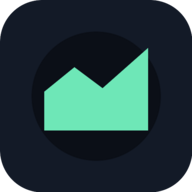
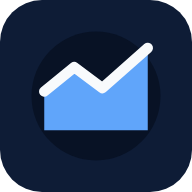
Apply blue dashboard theme

diff --git a/src/index.css b/src/index.css
@@ -1,21 +1,21 @@
 :root {
   font-family: Inter, ui-sans-serif, system-ui, -apple-system, BlinkMacSystemFont, "Segoe UI", sans-serif;
-  color: #f4f7fb;
-  background: #0b0f17;
+  color: #f4f8ff;
+  background: #081225;
   font-synthesis: none;
   text-rendering: optimizeLegibility;
   color-scheme: dark;
-  --background: #0b0f17;
-  --sidebar: #0e131d;
-  --panel: #111722;
-  --panel-raised: #151c29;
-  --border: #252c38;
-  --border-strong: #303848;
-  --text: #f4f7fb;
-  --text-soft: #a7b0bf;
-  --text-muted: #596274;
-  --accent: #6ee7b7;
-  --accent-strong: #34d399;
+  --background: #081225;
+  --sidebar: #0b1730;
+  --panel: #0e1c36;
+  --panel-raised: #132440;
+  --border: #213657;
+  --border-strong: #2c4770;
+  --text: #f4f8ff;
+  --text-soft: #a9bad3;
+  --text-muted: #667b9e;
+  --accent: #60a5fa;
+  --accent-strong: #3b82f6;
 }
 
 * {
@@ -31,7 +31,7 @@ body {
   min-width: 320px;
   min-height: 100vh;
   background:
-    radial-gradient(circle at 74% 12%, rgba(47, 129, 105, 0.09), transparent 27rem),
+    radial-gradient(circle at 74% 12%, rgba(37, 99, 235, 0.16), transparent 27rem),
     var(--background);
 }
 
@@ -83,7 +83,7 @@ a {
   width: 100%;
   height: 100%;
   padding: 22px 14px 16px;
-  background: rgba(14, 19, 29, 0.98);
+  background: rgba(11, 23, 48, 0.98);
   border-right: 1px solid var(--border);
 }
 
@@ -103,10 +103,10 @@ a {
   place-items: center;
   width: 31px;
   height: 31px;
-  color: #08110e;
+  color: #061225;
   background: var(--accent);
   border-radius: 9px;
-  box-shadow: 0 0 24px rgba(110, 231, 183, 0.16);
+  box-shadow: 0 0 24px rgba(96, 165, 250, 0.24);
 }
 
 .nav-list {
@@ -121,7 +121,7 @@ a {
   gap: 12px;
   min-height: 42px;
   padding: 0 12px;
-  color: #737d8f;
+  color: #7589a8;
   border: 1px solid transparent;
   border-radius: 9px;
   font-size: 14px;
@@ -136,8 +136,8 @@ a {
 
 .nav-item.active {
   color: var(--text);
-  background: #19212d;
-  border-color: #283241;
+  background: #10284a;
+  border-color: #21446d;
   box-shadow: inset 3px 0 var(--accent);
 }
 
@@ -181,16 +181,16 @@ a {
   flex: 0 0 auto;
   width: 34px;
   height: 34px;
-  color: var(--avatar-accent, #8ba29a);
-  background: color-mix(in srgb, var(--avatar-accent, #6ee7b7) 13%, #151c29);
-  border: 1px solid color-mix(in srgb, var(--avatar-accent, #6ee7b7) 24%, #242c38);
+  color: var(--avatar-accent, #8daee0);
+  background: color-mix(in srgb, var(--avatar-accent, #60a5fa) 13%, #132440);
+  border: 1px solid color-mix(in srgb, var(--avatar-accent, #60a5fa) 24%, #213657);
   border-radius: 10px;
   font-size: 10px;
   font-weight: 700;
 }
 
 .avatar-owner {
-  --avatar-accent: #6ee7b7;
+  --avatar-accent: #60a5fa;
 }
 
 .profile-menu,
@@ -216,8 +216,8 @@ a {
   justify-content: space-between;
   height: 68px;
   padding: 0 34px;
-  background: rgba(11, 15, 23, 0.82);
-  border-bottom: 1px solid rgba(37, 44, 56, 0.82);
+  background: rgba(8, 18, 37, 0.82);
+  border-bottom: 1px solid rgba(33, 54, 87, 0.82);
   backdrop-filter: blur(18px);
 }
 
@@ -248,7 +248,7 @@ kbd {
   min-width: max-content;
   padding: 3px 6px;
   color: var(--text-muted);
-  background: #151b26;
+  background: #111f39;
   border: 1px solid var(--border);
   border-radius: 5px;
   font-family: inherit;
@@ -276,7 +276,7 @@ kbd {
   width: 36px;
   height: 36px;
   color: var(--text-soft);
-  background: #121823;
+  background: #0e1d36;
   border: 1px solid var(--border);
   border-radius: 9px;
 }
@@ -288,7 +288,7 @@ kbd {
   width: 5px;
   height: 5px;
   background: var(--accent);
-  border: 1px solid #121823;
+  border: 1px solid #0e1d36;
   border-radius: 50%;
 }
 
@@ -297,7 +297,7 @@ kbd {
   min-height: 36px;
   padding: 0 11px;
   color: var(--text-soft);
-  background: #121823;
+  background: #0e1d36;
   border: 1px solid var(--border);
   border-radius: 9px;
   font-size: 12px;
@@ -357,9 +357,9 @@ h2 {
   align-items: center;
   gap: 7px;
   padding: 7px 10px;
-  color: #668b7d;
-  background: rgba(55, 134, 108, 0.08);
-  border: 1px solid rgba(74, 164, 132, 0.16);
+  color: #82b7f8;
+  background: rgba(59, 130, 246, 0.1);
+  border: 1px solid rgba(96, 165, 250, 0.2);
   border-radius: 999px;
   font-size: 10px;
   font-weight: 600;
@@ -371,7 +371,7 @@ h2 {
   height: 6px;
   background: var(--accent);
   border-radius: 50%;
-  box-shadow: 0 0 0 4px rgba(110, 231, 183, 0.08);
+  box-shadow: 0 0 0 4px rgba(96, 165, 250, 0.1);
 }
 
 .metric-grid {
@@ -383,7 +383,7 @@ h2 {
 
 .metric-card,
 .panel {
-  background: linear-gradient(145deg, rgba(21, 28, 41, 0.82), rgba(17, 23, 34, 0.93));
+  background: linear-gradient(145deg, rgba(19, 36, 64, 0.86), rgba(14, 28, 54, 0.94));
   border: 1px solid var(--border);
   border-radius: 13px;
   box-shadow: 0 16px 40px rgba(0, 0, 0, 0.07);
@@ -488,7 +488,7 @@ h2 {
 }
 
 .target-dot {
-  background: #596274;
+  background: #667b9e;
 }
 
 .chart-wrap {
@@ -499,9 +499,9 @@ h2 {
 .secondary-button {
   min-height: 30px;
   padding: 0 9px;
-  color: #596274;
-  background: #171e2a;
-  border: 1px solid #252e3b;
+  color: #7186a6;
+  background: #12223d;
+  border: 1px solid #243a5d;
   border-radius: 7px;
   font-size: 10px;
   font-weight: 600;
@@ -547,7 +547,7 @@ th {
 
 td {
   padding: 12px 17px;
-  border-bottom: 1px solid rgba(37, 44, 56, 0.72);
+  border-bottom: 1px solid rgba(33, 54, 87, 0.72);
   font-size: 11px;
   white-space: nowrap;
 }
@@ -714,7 +714,7 @@ tbody tr:hover {
     width: 34px;
     height: 34px;
     color: var(--text);
-    background: #161d29;
+    background: #10213e;
     border: 1px solid var(--border-strong);
     border-radius: 9px;
   }

diff --git a/src/components/RevenueChart.tsx b/src/components/RevenueChart.tsx
@@ -32,23 +32,23 @@ export function RevenueChart() {
           <AreaChart data={revenueSeries} margin={{ top: 12, right: 6, left: -16, bottom: 0 }}>
             <defs>
               <linearGradient id="revenueFill" x1="0" y1="0" x2="0" y2="1">
-                <stop offset="0%" stopColor="#6ee7b7" stopOpacity={0.28} />
-                <stop offset="100%" stopColor="#6ee7b7" stopOpacity={0} />
+                <stop offset="0%" stopColor="#60a5fa" stopOpacity={0.32} />
+                <stop offset="100%" stopColor="#60a5fa" stopOpacity={0} />
               </linearGradient>
             </defs>
-            <CartesianGrid stroke="#252b38" vertical={false} strokeDasharray="3 3" />
-            <XAxis dataKey="day" axisLine={false} tickLine={false} tick={{ fill: '#596274', fontSize: 12 }} />
+            <CartesianGrid stroke="#213657" vertical={false} strokeDasharray="3 3" />
+            <XAxis dataKey="day" axisLine={false} tickLine={false} tick={{ fill: '#667b9e', fontSize: 12 }} />
             <YAxis
               axisLine={false}
               tickLine={false}
-              tick={{ fill: '#596274', fontSize: 12 }}
+              tick={{ fill: '#667b9e', fontSize: 12 }}
               tickFormatter={formatCompactCurrency}
             />
             <Tooltip
               formatter={(value) => [formatCompactCurrency(Number(value ?? 0)), '']}
               contentStyle={{
-                background: '#171e2c',
-                border: '1px solid #303848',
+                background: '#10213e',
+                border: '1px solid #2c4770',
                 borderRadius: 10,
                 color: '#f8fafc',
               }}
@@ -57,7 +57,7 @@ export function RevenueChart() {
             <Area
               type="monotone"
               dataKey="target"
-              stroke="#596274"
+              stroke="#667b9e"
               strokeWidth={2}
               strokeDasharray="5 5"
               fill="transparent"
@@ -65,7 +65,7 @@ export function RevenueChart() {
             <Area
               type="monotone"
               dataKey="revenue"
-              stroke="#6ee7b7"
+              stroke="#60a5fa"
               strokeWidth={2.5}
               fill="url(#revenueFill)"
             />

diff --git a/src/components/ChannelChart.tsx b/src/components/ChannelChart.tsx
@@ -10,7 +10,7 @@ import {
 } from 'recharts'
 import { channelSeries } from '../data/demoData'
 
-const colors = ['#6ee7b7', '#56caa2', '#44ad8d', '#369079', '#2b7464']
+const colors = ['#60a5fa', '#4f8fe8', '#3f7bd3', '#3268ba', '#28569e']
 
 export function ChannelChart() {
   return (
@@ -30,12 +30,12 @@ export function ChannelChart() {
           initialDimension={{ width: 420, height: 270 }}
         >
           <BarChart data={channelSeries} layout="vertical" margin={{ top: 6, right: 10, left: 2, bottom: 0 }}>
-            <CartesianGrid stroke="#252b38" horizontal={false} strokeDasharray="3 3" />
+            <CartesianGrid stroke="#213657" horizontal={false} strokeDasharray="3 3" />
             <XAxis
               type="number"
               axisLine={false}
               tickLine={false}
-              tick={{ fill: '#596274', fontSize: 11 }}
+              tick={{ fill: '#667b9e', fontSize: 11 }}
               tickFormatter={(value: number) => `${value / 1000}k`}
             />
             <YAxis
@@ -44,14 +44,14 @@ export function ChannelChart() {
               width={62}
               axisLine={false}
               tickLine={false}
-              tick={{ fill: '#596274', fontSize: 12 }}
+              tick={{ fill: '#667b9e', fontSize: 12 }}
             />
             <Tooltip
               cursor={{ fill: 'rgba(255,255,255,0.025)' }}
               formatter={(value) => [Number(value ?? 0).toLocaleString(), 'Sessions']}
               contentStyle={{
-                background: '#171e2c',
-                border: '1px solid #303848',
+                background: '#10213e',
+                border: '1px solid #2c4770',
                 borderRadius: 10,
                 color: '#f8fafc',
               }}

diff --git a/index.html b/index.html
@@ -5,7 +5,7 @@
     <link rel="icon" type="image/svg+xml" href="/favicon.svg" />
     <link rel="apple-touch-icon" href="/apple-touch-icon.png" />
     <meta name="viewport" content="width=device-width, initial-scale=1.0" />
-    <meta name="theme-color" content="#0b0f17" />
+    <meta name="theme-color" content="#081225" />
     <meta
       name="description"
       content="Northstar Analytics — a focused workspace for revenue and growth teams."

diff --git a/vite.config.ts b/vite.config.ts
@@ -23,8 +23,8 @@ export default defineConfig({
         name: 'Northstar Analytics',
         short_name: 'Northstar',
         description: 'A focused analytics workspace for modern revenue teams.',
-        theme_color: '#0b0f17',
-        background_color: '#0b0f17',
+        theme_color: '#081225',
+        background_color: '#081225',
         display: 'standalone',
         orientation: 'any',
         start_url: '/',

diff --git a/src/data/demoData.ts b/src/data/demoData.ts
@@ -82,7 +82,7 @@ export const activities: Activity[] = [
     status: 'Completed',
     time: '2 min ago',
     initials: 'OM',
-    accent: '#6ee7b7',
+    accent: '#60a5fa',
   },
   {
     id: 'INV-2047',
